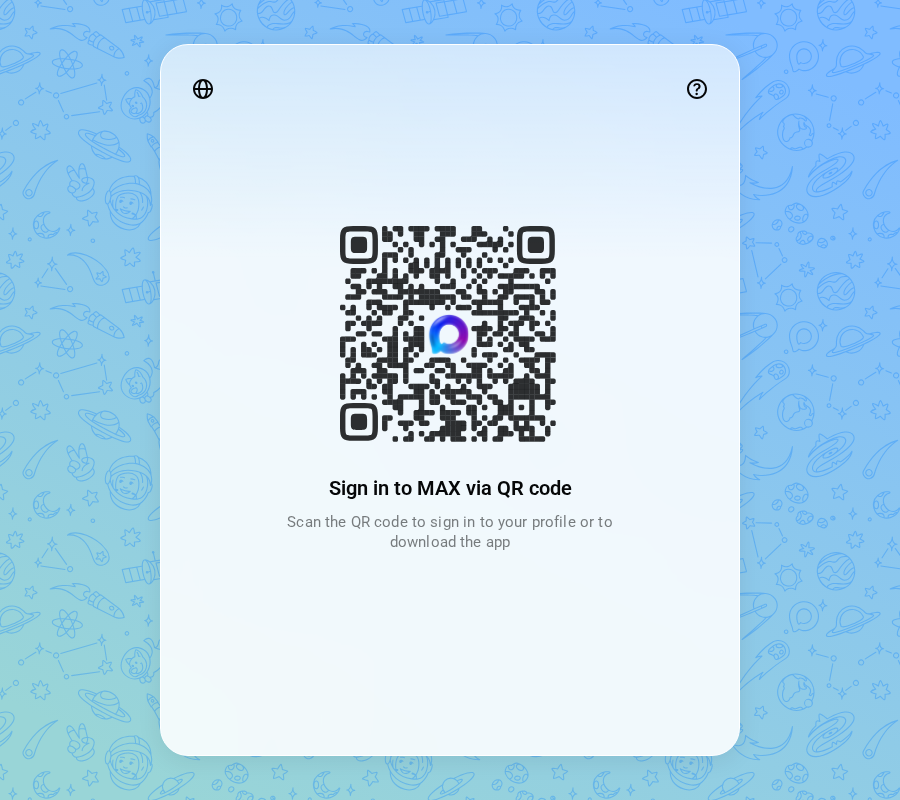
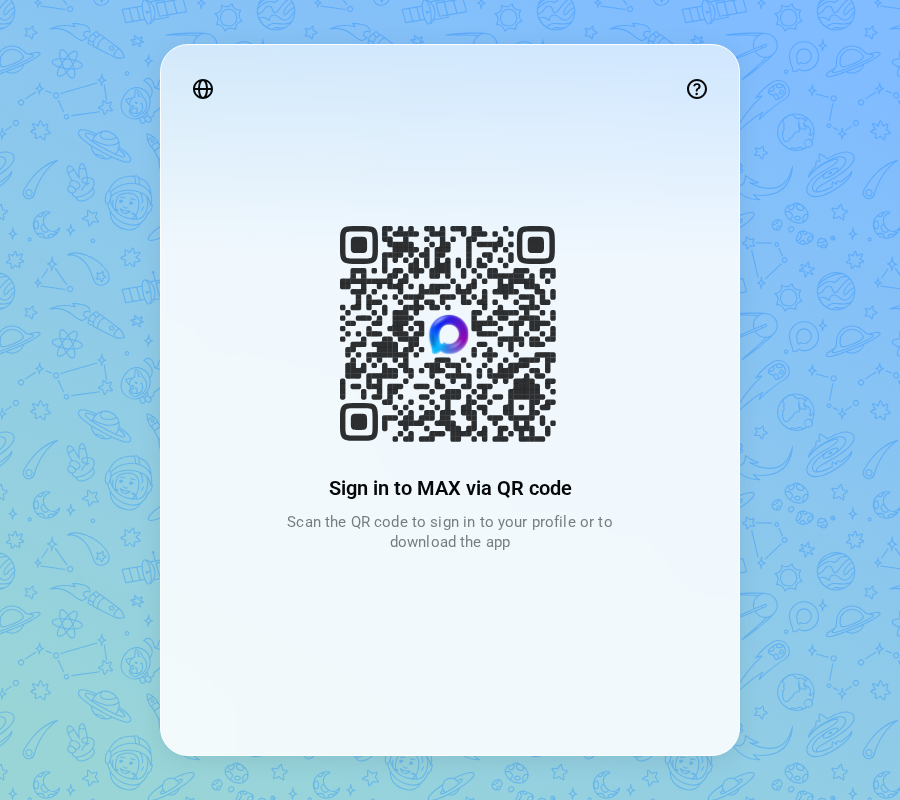
qr-login: обновлять QR в каждом цикле (страница без canvas)

Changed region(s): [[0.3733, 0.2812, 0.6222, 0.5625], [0.5911, 0.4688, 0.6222, 0.5312]]

diff --git a/qr-login.js b/qr-login.js
@@ -52,9 +52,10 @@ function setStatus(s) {
     await page.waitForTimeout(4000);
     let st;
     try { st = await loggedInCheck(); } catch { continue; }
-    // Пока не вошёл — обновляем картинку QR (он может протухать)
-    if (st.hasCanvas && !st.hasInput) {
+    // Пока не вошёл (есть QR-экран, нет поля ввода) — обновляем картинку QR, он протухает
+    if (!st.hasInput && st.url.includes('web.max.ru') && !st.hasChats) {
       await snapQR();
+      setStatus('QR_REFRESHED:' + Date.now());
       continue;
     }
     if (st.hasInput || st.hasChats) {
